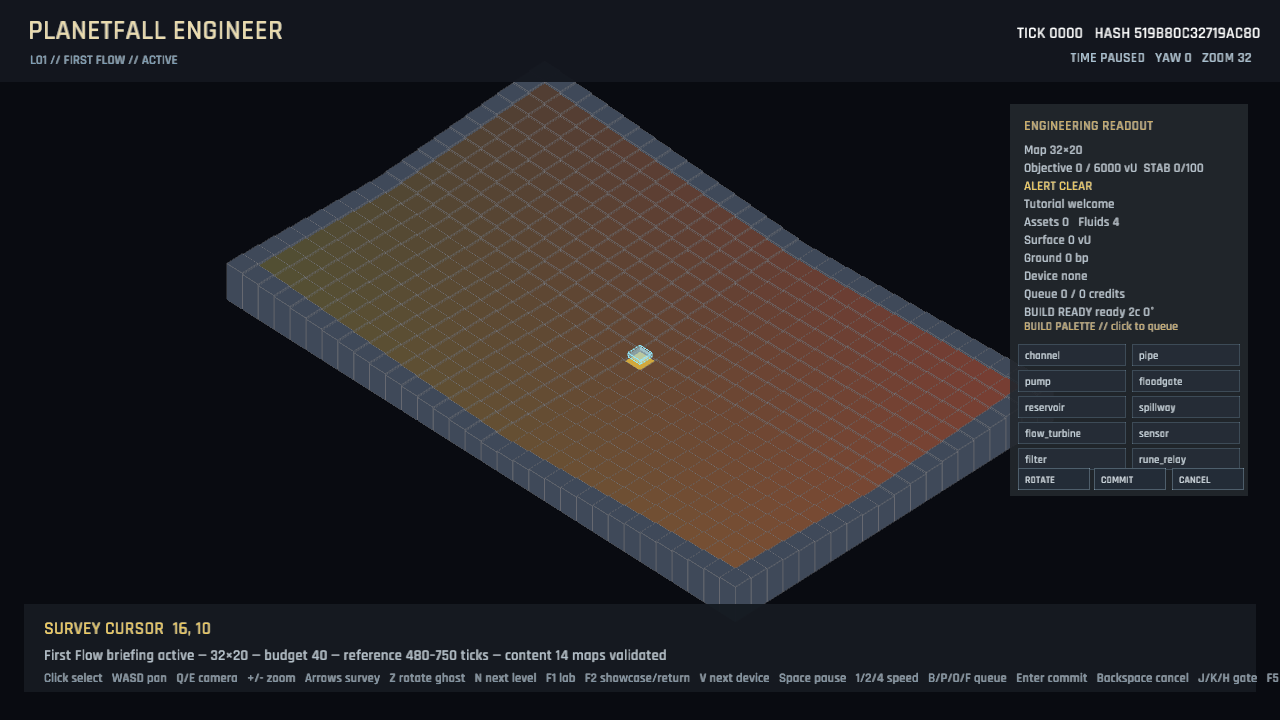
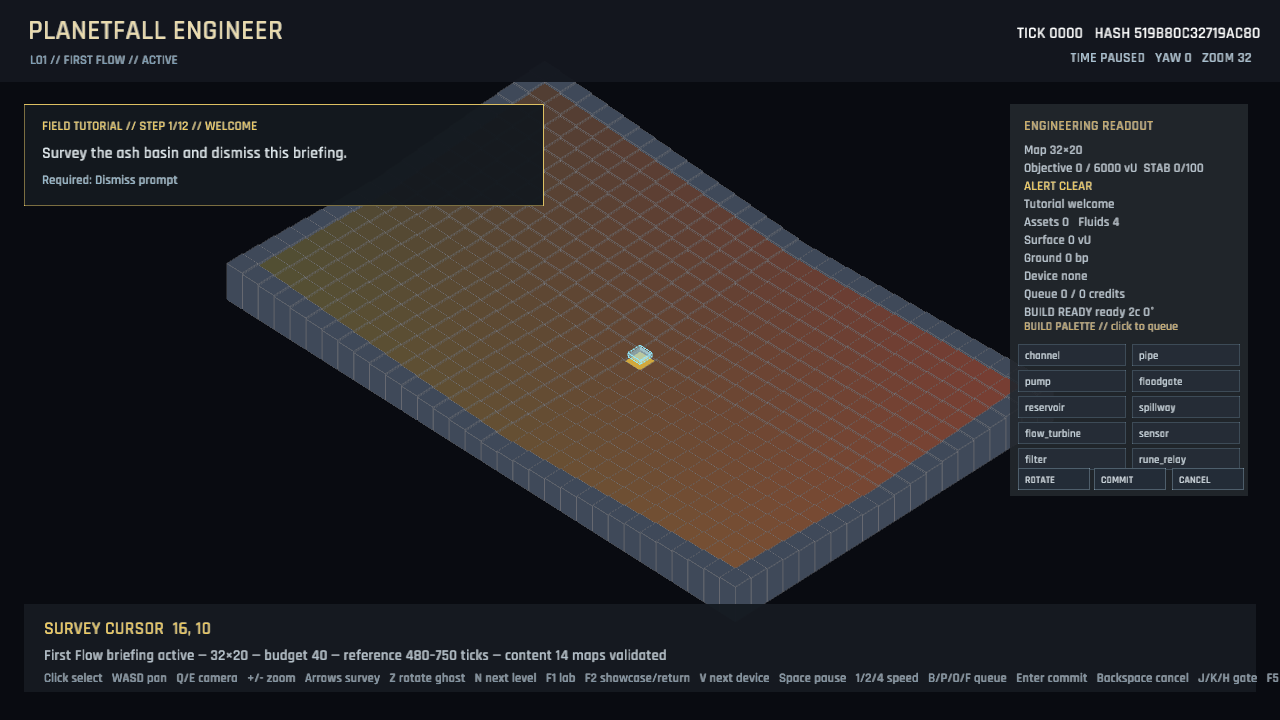
The field guide meets the surveyor at every tutorial step (tutorial prompts)
The twelve-step L01 tutorial now renders explicit player-facing instructions and required actions until the authoritative event advances the step. The production capture proves the prompt leaves the 3D focus target and clickable build controls accessible.

Changed region(s): [[0.0312, 0.1222, 0.4375, 0.3056]]

diff --git a/src/ui.rs b/src/ui.rs
@@ -299,6 +299,11 @@ pub fn draw_hud(ctx: UiContext<'_>) {
     ) {
         draw_terminal_panel(ctx.session);
     }
+    if let Some(tutorial) = ctx.session.mission.tutorial.as_ref() {
+        if !tutorial.is_complete() {
+            draw_tutorial_prompt(tutorial);
+        }
+    }
     if ctx.pause_menu {
         draw_pause_menu();
     }
@@ -460,6 +465,117 @@ fn draw_pause_menu() {
         364.0,
         TextStyle::new(16.0, WHITE).params(),
     );
+}
+
+fn draw_tutorial_prompt(tutorial: &crate::mission::TutorialState) {
+    let (step, instruction, action) = tutorial_prompt(tutorial.current_step_id.as_str());
+    draw_rectangle(
+        24.0,
+        104.0,
+        520.0,
+        102.0,
+        Color::new(0.035, 0.055, 0.08, 0.96),
+    );
+    draw_rectangle_lines(
+        24.0,
+        104.0,
+        520.0,
+        102.0,
+        1.5,
+        Color::new(0.95, 0.8, 0.35, 0.9),
+    );
+    draw_ui_text_ex(
+        &format!(
+            "FIELD TUTORIAL // STEP {}/12 // {}",
+            tutorial.completed_step_ids.len() + 1,
+            step
+        ),
+        42.0,
+        130.0,
+        TextStyle::new(13.0, Color::new(0.95, 0.8, 0.35, 1.0)).params(),
+    );
+    draw_ui_text_ex(
+        instruction,
+        42.0,
+        158.0,
+        TextStyle::new(16.0, Color::new(0.86, 0.9, 0.92, 1.0)).params(),
+    );
+    draw_ui_text_ex(
+        &format!("Required: {action}"),
+        42.0,
+        184.0,
+        TextStyle::new(13.0, Color::new(0.58, 0.72, 0.8, 1.0)).params(),
+    );
+}
+
+fn tutorial_prompt(step: &str) -> (&'static str, &'static str, &'static str) {
+    match step {
+        "tutorial_l01_welcome" => (
+            "WELCOME",
+            "Survey the ash basin and dismiss this briefing.",
+            "Dismiss prompt",
+        ),
+        "tutorial_l01_move_camera" => (
+            "CAMERA",
+            "Pan across the map to inspect the ridge.",
+            "W/A/S/D or drag",
+        ),
+        "tutorial_l01_move_cursor" => (
+            "SURVEY CURSOR",
+            "Move the survey cursor to the marked grade.",
+            "Arrow keys",
+        ),
+        "tutorial_l01_inspect_grade" => (
+            "INSPECT",
+            "Inspect the selected cell before changing it.",
+            "I",
+        ),
+        "tutorial_l01_pause_plan" => (
+            "PAUSE AND PLAN",
+            "Keep the simulation paused while preparing terrain.",
+            "Space, then select terrain",
+        ),
+        "tutorial_l01_excavate" => (
+            "EXCAVATE",
+            "Lower the selected route cell to open the flow path.",
+            "X",
+        ),
+        "tutorial_l01_place_channel" => (
+            "PLACE CHANNEL",
+            "Choose a channel and queue it on the route.",
+            "B or palette",
+        ),
+        "tutorial_l01_commit_plan" => (
+            "COMMIT",
+            "Commit the queued engineering plan.",
+            "Enter or COMMIT",
+        ),
+        "tutorial_l01_run_and_observe" => (
+            "OBSERVE",
+            "Run time and watch water enter the route.",
+            "Space or 1",
+        ),
+        "tutorial_l01_control_gate" => (
+            "OPEN GATE",
+            "Set the floodgate to the half-open control point.",
+            "K",
+        ),
+        "tutorial_l01_see_impact" => (
+            "CLOSE GATE",
+            "Close the gate and observe the flow change.",
+            "J",
+        ),
+        "tutorial_l01_stabilize" => (
+            "STABILIZE",
+            "Run the basin until the stability window completes.",
+            "Space or 1",
+        ),
+        _ => (
+            "TUTORIAL",
+            "Follow the current mission instruction.",
+            "Mission controls",
+        ),
+    }
 }
 
 fn draw_text_right(text: &str, right: f32, y: f32, style: TextStyle) {

diff --git a/docs/09_QUALITY_GATES.md b/docs/09_QUALITY_GATES.md
@@ -124,6 +124,10 @@ blocked preview changes to a red ghost and remains non-committable.
 The palette's visible Rotate, Commit, and Cancel buttons share the scaled mouse
 regions used by the keyboard-equivalent commands.
 
+L01 renders each incomplete tutorial step as a field prompt with an instruction
+and required action; the prompt disappears only after the authoritative event
+advances the tutorial state.
+
 The replay owner covers the ten campaign scenarios listed above, including
 alternate success paths, authored hazard failures, and the L03 insufficient-
 water recovery path. Each report includes midpoint continuation and the four

diff --git a/README.md b/README.md
@@ -60,6 +60,8 @@ engineering contract; the GDD remains the source of product intent.
 - Event-driven L01 tutorial state with twelve ordered steps, stable
   `tutorial_locked` admissions, skip behavior, saved progress fields, and
   deterministic tutorial tests.
+- The active L01 step is rendered as a readable field prompt with the required
+  action, so a new player can follow the authored path without external notes.
 - Camera changes, selection, inspection, time controls, terrain edits, device
   queues, plan commits, and floodgate settings now pass through tutorial
   admission, so the playable path cannot bypass locked L01 steps.
